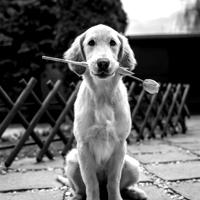
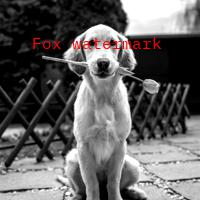
adding watermark

Changed region(s): [[0.36, 0.18, 0.81, 0.27], [0.15, 0.18, 0.3, 0.27]]

diff --git a/process.py b/process.py
@@ -1,7 +1,7 @@
 import glob
 import shutil
 import os
-from PIL import Image, ImageOps, ImageEnhance
+from PIL import Image, ImageOps, ImageEnhance, ImageDraw, ImageFont
 
 
 class Digitizer:
@@ -19,6 +19,7 @@ class Digitizer:
 
     def make_grayscale(self):
         self.img = ImageOps.grayscale(self.img)
+        self.img = self.img.convert("RGB")
 
     def make_upside_down(self):
         self.img = self.img.rotate(180)
@@ -36,8 +37,13 @@ class Digitizer:
             x = 0
             y = (h - w) * 0.5
             box = (x, y, x + w, y + w)
-
         self.img = self.img.resize((size, size), box=box)
+
+    def add_watermark(self):
+        font = ImageFont.truetype("ibm-plex-mono.ttf", 16)
+        drawer = ImageDraw.Draw(self.img)
+
+        drawer.text((32, 32), "Fox watermark", font=font, fill=(255))
 
 
 inputs = glob.glob("inputs/*.jpg")
@@ -53,4 +59,5 @@ for filepath in inputs:
     image.make_square()
     image.make_grayscale()
     image.adjust_contrast()
+    image.add_watermark()
     image.save(output)
